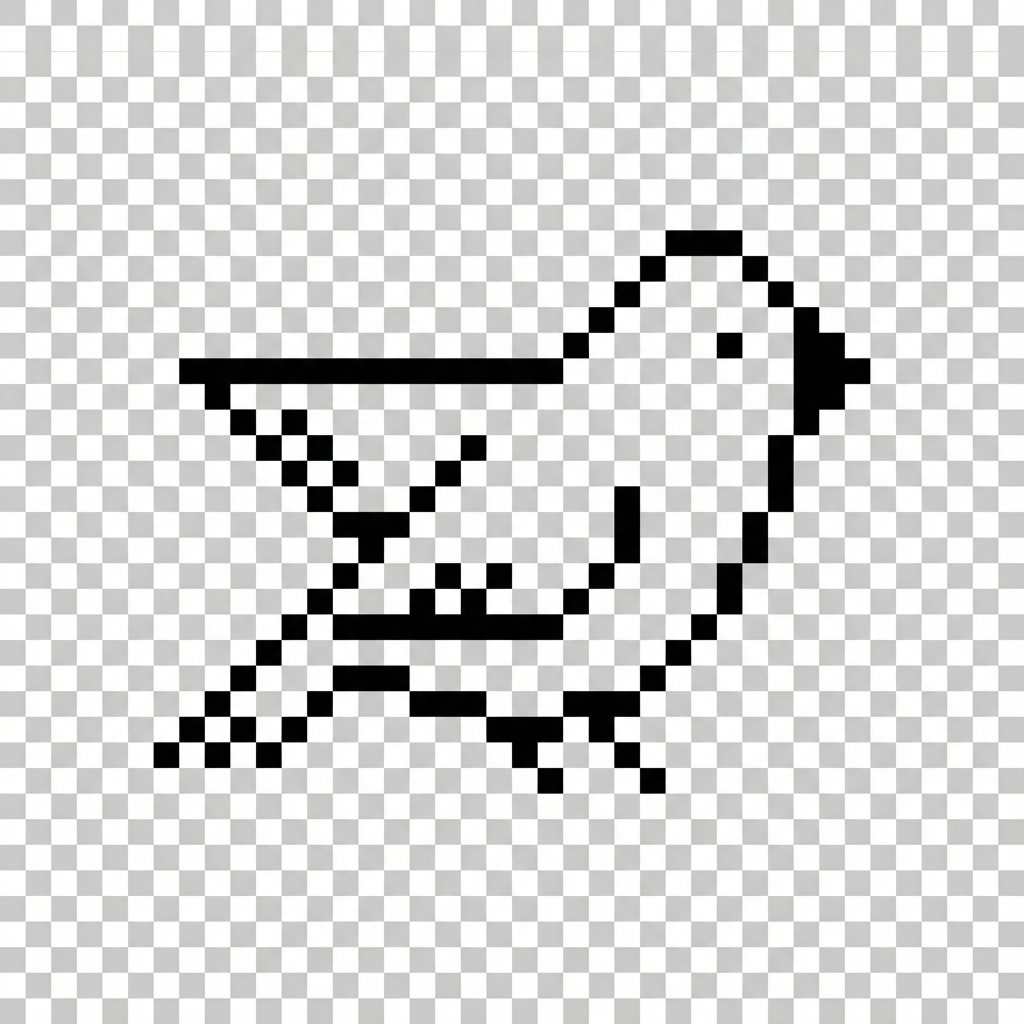
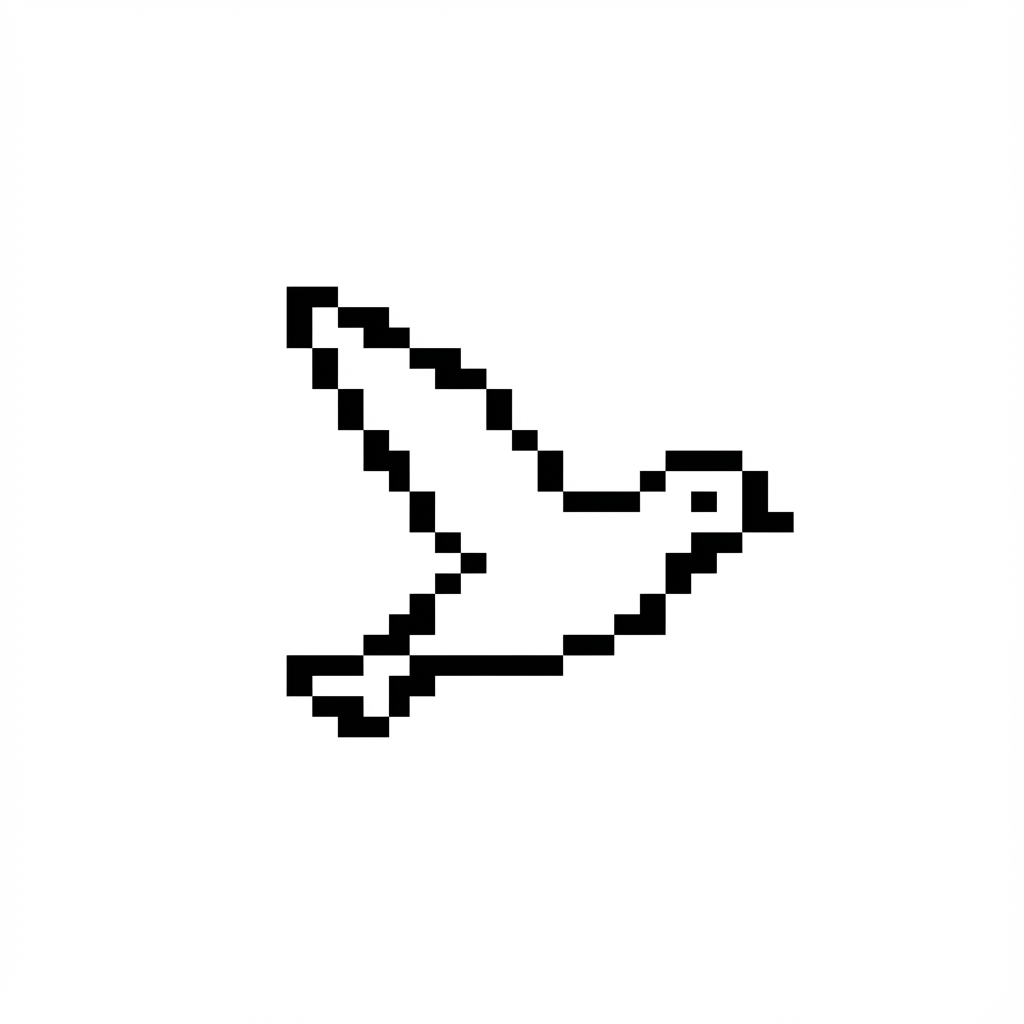
feat: smart screen pet with perch logic and corrected assets

diff --git a/src/components/ScreenPet.jsx b/src/components/ScreenPet.jsx
@@ -1,156 +1,208 @@
 import React from 'react';
 
 const ScreenPet = () => {
-    const [wingsUp, setWingsUp] = React.useState(true);
-    const mousePos = React.useRef({ x: 0, y: 0 });
-    const birdPos = React.useRef({ x: -100, y: -100 }); // Initial visual pos
-    const isChasing = React.useRef(false);
+    // State
+    const [sprite, setSprite] = React.useState('bird_up.png'); // bird_up, bird_down, bird_sit
+    const [facingRight, setFacingRight] = React.useState(true);
+
+    // Refs for animation loop
+    const birdPos = React.useRef({ x: -100, y: -100 });
+    const targetPos = React.useRef(null); // {x, y} or null
+    const state = React.useRef('INIT'); // INIT, FLY_IN, IDLE_TOP_LEFT, ROAMING, PERCHED
     const requestRef = React.useRef();
 
-    // 1. Hover/Flap Animation
+    // 1. Logic Loop
     React.useEffect(() => {
+        const bird = document.getElementById('bird-container');
+        const bubble = document.querySelector('.speech-bubble');
+
+        // --- FLAPPING LOGIC ---
+        // We toggle sprite only if moving (targetPos is not null)
         const flapInterval = setInterval(() => {
-            setWingsUp(prev => !prev);
-        }, 200); // Flap speed
-        return () => clearInterval(flapInterval);
-    }, []);
-
-    // 2. Mouse Tracking Listener
-    React.useEffect(() => {
-        const handleMouseMove = (e) => {
-            mousePos.current = { x: e.clientX, y: e.clientY };
-        };
-        window.addEventListener('mousemove', handleMouseMove);
-        return () => window.removeEventListener('mousemove', handleMouseMove);
-    }, []);
-
-    // 3. Main Logic (Entry -> Chase)
-    React.useEffect(() => {
-        const bgTimer = setTimeout(() => {
-            const bird = document.getElementById('bird-container');
-            const bubble = document.querySelector('.speech-bubble');
-
-            if (bird && bubble) {
-                // Trigger Entry
-                bird.classList.add('is-active-top-left');
-
-                const handleTransitionEnd = (e) => {
-                    if (e.propertyName === 'top' || e.propertyName === 'left') {
-                        // Entry finished
-
-                        // Check if user has already seen/dismissed the resume bubble
-                        const hasSeenBubble = localStorage.getItem('hasSeenResumeBubble');
-                        if (!hasSeenBubble) {
-                            bubble.style.display = 'block';
-                            // Note: We'll set the flag when they click/download.
-                            // If you want it "start once" (shown once per lifetime), set it here:
-                            // localStorage.setItem('hasSeenResumeBubble', 'true');
-                            // But usually "only once" means "until I interact". 
-                            // Re-reading user request: "popup... must only be once".
-                            // I'll set it here to be safe, so it doesn't show on reload.
-                            localStorage.setItem('hasSeenResumeBubble', 'true');
-                        }
-
-                        // Start Chasing Mode
-                        isChasing.current = true;
-
-                        // Get current computed position to start chase smoothly
-                        const rect = bird.getBoundingClientRect();
-                        birdPos.current = { x: rect.left, y: rect.top };
-
-                        // Disable CSS transition for smooth JS movement
-                        bird.style.transition = 'none';
-
-                        startChaseLoop();
-                        bird.removeEventListener('transitionend', handleTransitionEnd);
-                    }
-                };
-                bird.addEventListener('transitionend', handleTransitionEnd);
+            if (state.current === 'FLY_IN' || state.current === 'ROAMING' || state.current === 'CHASING') {
+                setSprite(prev => (prev === 'bird_up.png' ? 'bird_down.png' : 'bird_up.png'));
+            } else if (state.current === 'PERCHED' || state.current === 'IDLE_TOP_LEFT') {
+                setSprite('bird_sit.png');
             }
-        }, 500);
-        return () => clearTimeout(bgTimer);
-    }, []);
+        }, 200);
 
-    const startChaseLoop = () => {
+        // --- MAIN GAME LOOP ---
         const loop = () => {
-            const bird = document.getElementById('bird-container');
             if (!bird) return;
 
-            // Lerp towards mouse
-            const targetX = mousePos.current.x;
-            const targetY = mousePos.current.y;
+            // STATE MACHINE
+            if (state.current === 'INIT') {
+                // Initialize position off-screen
+                birdPos.current = { x: -100, y: window.innerHeight + 100 };
+                // Start movement to Top-Left
+                state.current = 'FLY_IN';
+                // Define Top-Left
+                targetPos.current = { x: 20, y: 20 };
 
-            // Speed factor
-            const dx = targetX - birdPos.current.x;
-            const dy = targetY - birdPos.current.y;
+                // Show standard CSS transition is tricky with JS override. 
+                // We'll do pure JS movement for consistency now.
+            }
 
-            // Move 5% of the distance per frame (smooth easing)
-            birdPos.current.x += dx * 0.05;
-            birdPos.current.y += dy * 0.05;
+            else if (state.current === 'FLY_IN') {
+                moveTowardsTarget(5); // Fast speed
+                if (hasReachedTarget()) {
+                    state.current = 'IDLE_TOP_LEFT';
+                    targetPos.current = null;
 
-            // Apply position
+                    // Show Bubble
+                    const hasSeen = localStorage.getItem('hasSeenResumeBubble');
+                    // Only show if NOT roaming. Since we are in IDLE_TOP_LEFT, we check.
+                    // User said: "popup... must only be open when the bird coming to the top left corner"
+
+                    if (!hasSeen && bubble) {
+                        bubble.style.display = 'block';
+                        // Hide after 5 seconds
+                        setTimeout(() => {
+                            if (bubble) bubble.style.display = 'none';
+                            // Resume behaviors
+                            decideNextMove();
+                        }, 5000);
+                    } else {
+                        // No bubble needed, wait shorter then roam
+                        setTimeout(decideNextMove, 2000);
+                    }
+                }
+            }
+
+            else if (state.current === 'ROAMING') {
+                moveTowardsTarget(3); // Normal speed
+                if (hasReachedTarget()) {
+                    // Arrived at random spot or card
+                    state.current = 'PERCHED';
+                    targetPos.current = null;
+                    // Rest for a while (2s to 6s)
+                    setTimeout(decideNextMove, 3000 + Math.random() * 5000);
+                }
+            }
+            // PERCHED state does nothing -> waits for timeout to call decideNextMove -> sets ROAMING
+
+            // Apply transforms
             bird.style.left = `${birdPos.current.x}px`;
             bird.style.top = `${birdPos.current.y}px`;
 
-            // Flip bird based on direction
-            const birdImg = document.getElementById('bird-actor');
-            if (birdImg) {
-                if (dx > 0) birdImg.style.transform = 'scaleX(1)'; // Face Right
-                if (dx < 0) birdImg.style.transform = 'scaleX(-1)'; // Face Left
-            }
-
-            // Create Trail (only if moving significantly)
-            if (Math.abs(dx) > 2 || Math.abs(dy) > 2) {
-                if (Math.random() > 0.8) { // Don't drop every frame
-                    createTrail(birdPos.current.x, birdPos.current.y);
-                }
+            // Trail logic
+            if ((state.current === 'FLY_IN' || state.current === 'ROAMING') && Math.random() > 0.9) {
+                createTrail(birdPos.current.x, birdPos.current.y);
             }
 
             requestRef.current = requestAnimationFrame(loop);
         };
-        requestRef.current = requestAnimationFrame(loop);
-    };
 
+        requestRef.current = requestAnimationFrame(loop);
+
+        // --- HELPERS ---
+        const moveTowardsTarget = (speed) => {
+            if (!targetPos.current) return;
+
+            const dx = targetPos.current.x - birdPos.current.x;
+            const dy = targetPos.current.y - birdPos.current.y;
+            const dist = Math.sqrt(dx * dx + dy * dy);
+
+            if (dist < speed) {
+                birdPos.current.x = targetPos.current.x;
+                birdPos.current.y = targetPos.current.y;
+            } else {
+                birdPos.current.x += (dx / dist) * speed;
+                birdPos.current.y += (dy / dist) * speed;
+            }
+
+            // Facing
+            if (dx > 0) setFacingRight(true);
+            if (dx < 0) setFacingRight(false);
+        };
+
+        const hasReachedTarget = () => {
+            if (!targetPos.current) return true;
+            const dx = targetPos.current.x - birdPos.current.x;
+            const dy = targetPos.current.y - birdPos.current.y;
+            return Math.sqrt(dx * dx + dy * dy) < 5;
+        };
+
+        const decideNextMove = () => {
+            // 60% chance to roam to a card
+            // 40% chance to roam to random spot
+            state.current = 'ROAMING';
+
+            // Re-query cards in case of dynamic content (rare but safe)
+            const cards = document.querySelectorAll('.project-card');
+            const pickCard = Math.random() > 0.4 && cards.length > 0;
+
+            if (pickCard) {
+                const randomCard = cards[Math.floor(Math.random() * cards.length)];
+                const rect = randomCard.getBoundingClientRect();
+
+                // rect is relative to viewport, which matches our fixed position system perfectly
+                // Aim for top of card
+                targetPos.current = {
+                    x: rect.left + 20 + Math.random() * (rect.width - 60), // Random spot on top edge
+                    y: rect.top - 50 // Sit on top edge (offset for bird height)
+                };
+            } else {
+                // Random screen spot
+                targetPos.current = {
+                    x: Math.random() * (window.innerWidth - 100),
+                    y: Math.random() * (window.innerHeight - 200)
+                };
+            }
+        };
+
+        return () => {
+            cancelAnimationFrame(requestRef.current);
+            clearInterval(flapInterval);
+            // Bubbles/timeouts might persist
+        };
+    }, []);
+
+    // Helper functions need to be inside or refs
     const createTrail = (x, y) => {
         const trail = document.createElement('div');
         trail.className = 'pixel-trail';
-        trail.style.left = `${x + 30}px`; // Center near bird body
+        trail.style.left = `${x + 30}px`;
         trail.style.top = `${y + 30}px`;
         document.body.appendChild(trail);
-
-        // Remove after animation (1s)
-        setTimeout(() => {
-            trail.remove();
-        }, 1000);
+        setTimeout(() => trail.remove(), 1000);
     };
 
-    // Bubble interaction
-    React.useEffect(() => {
+    // Bubble Click
+    const handleBubbleClick = (e) => {
+        e.stopPropagation();
         const bubble = document.querySelector('.speech-bubble');
-        if (bubble) {
-            const handleBubbleClick = (e) => {
-                e.stopPropagation();
-                const link = document.createElement('a');
-                link.href = 'Ajin-S-Resume.docx';
-                link.download = 'Ajin-S-Resume.docx';
-                document.body.appendChild(link);
-                link.click();
-                document.body.removeChild(link);
-                bubble.style.display = 'none';
-            };
-            bubble.addEventListener('click', handleBubbleClick);
-            return () => bubble.removeEventListener('click', handleBubbleClick);
-        }
-    }, []);
+        if (bubble) bubble.style.display = 'none';
 
+        const link = document.createElement('a');
+        link.href = 'Ajin-S-Resume.docx';
+        link.download = 'Ajin-S-Resume.docx';
+        document.body.appendChild(link);
+        link.click();
+        document.body.removeChild(link);
+
+        localStorage.setItem('hasSeenResumeBubble', 'true');
+    };
 
     return (
-        <div id="bird-container">
-            <div className="speech-bubble">Click to download resume</div>
+        <div id="bird-container" style={{ position: 'fixed', left: -100, top: -100 /* JS controls this */ }}>
+            <div
+                className="speech-bubble"
+                onClick={handleBubbleClick}
+                style={{ cursor: 'pointer' }}
+            >
+                Click to download resume
+            </div>
             <img
                 id="bird-actor"
-                src={wingsUp ? "bird_up.png" : "bird_down.png"}
+                src={sprite}
                 alt="Screen Pet"
+                style={{
+                    width: '64px',
+                    transform: facingRight ? 'scaleX(1)' : 'scaleX(-1)',
+                    imageRendering: 'pixelated',
+                    mixBlendMode: 'multiply', // Attempt to fix white background if png isn't transparent
+                }}
             />
         </div>
     );

diff --git a/src/components/ProjectCard.jsx b/src/components/ProjectCard.jsx
@@ -3,7 +3,12 @@ import { ExternalLink } from 'lucide-react';
 
 const ProjectCard = ({ title, description, tags, link, asciiArt, image }) => {
     return (
-        <div className="border-2 border-mac-border p-4 bg-white shadow-retro flex flex-col hover-lift transition-colors h-full">
+        <a
+            href={link}
+            target="_blank"
+            rel="noopener noreferrer"
+            className="project-card block group relative rounded-xl border-2 border-mac-border bg-mac-gray/50 p-4 transition-all hover:scale-[1.02] hover:shadow-mac-hard hover:border-black hover-lift h-full flex flex-col"
+        >
             <div className={`h-40 bg-gray-200 mb-4 border border-mac-border border-dashed flex items-center justify-center overflow-hidden ${image ? 'p-0' : ''}`}>
                 {image ? (
                     <img src={image} alt={title} className="w-full h-full object-cover object-center grayscale contrast-125" />
@@ -25,10 +30,10 @@ const ProjectCard = ({ title, description, tags, link, asciiArt, image }) => {
                 ))}
             </div>
 
-            <a href={link} className="inline-flex items-center gap-2 text-sm font-bold border-t border-mac-border pt-4 mt-auto hover:text-blue-600">
+            <span className="inline-flex items-center gap-2 text-sm font-bold border-t border-mac-border pt-4 mt-auto group-hover:text-blue-600">
                 View Project <ExternalLink size={14} />
-            </a>
-        </div>
+            </span>
+        </a>
     );
 };
 
